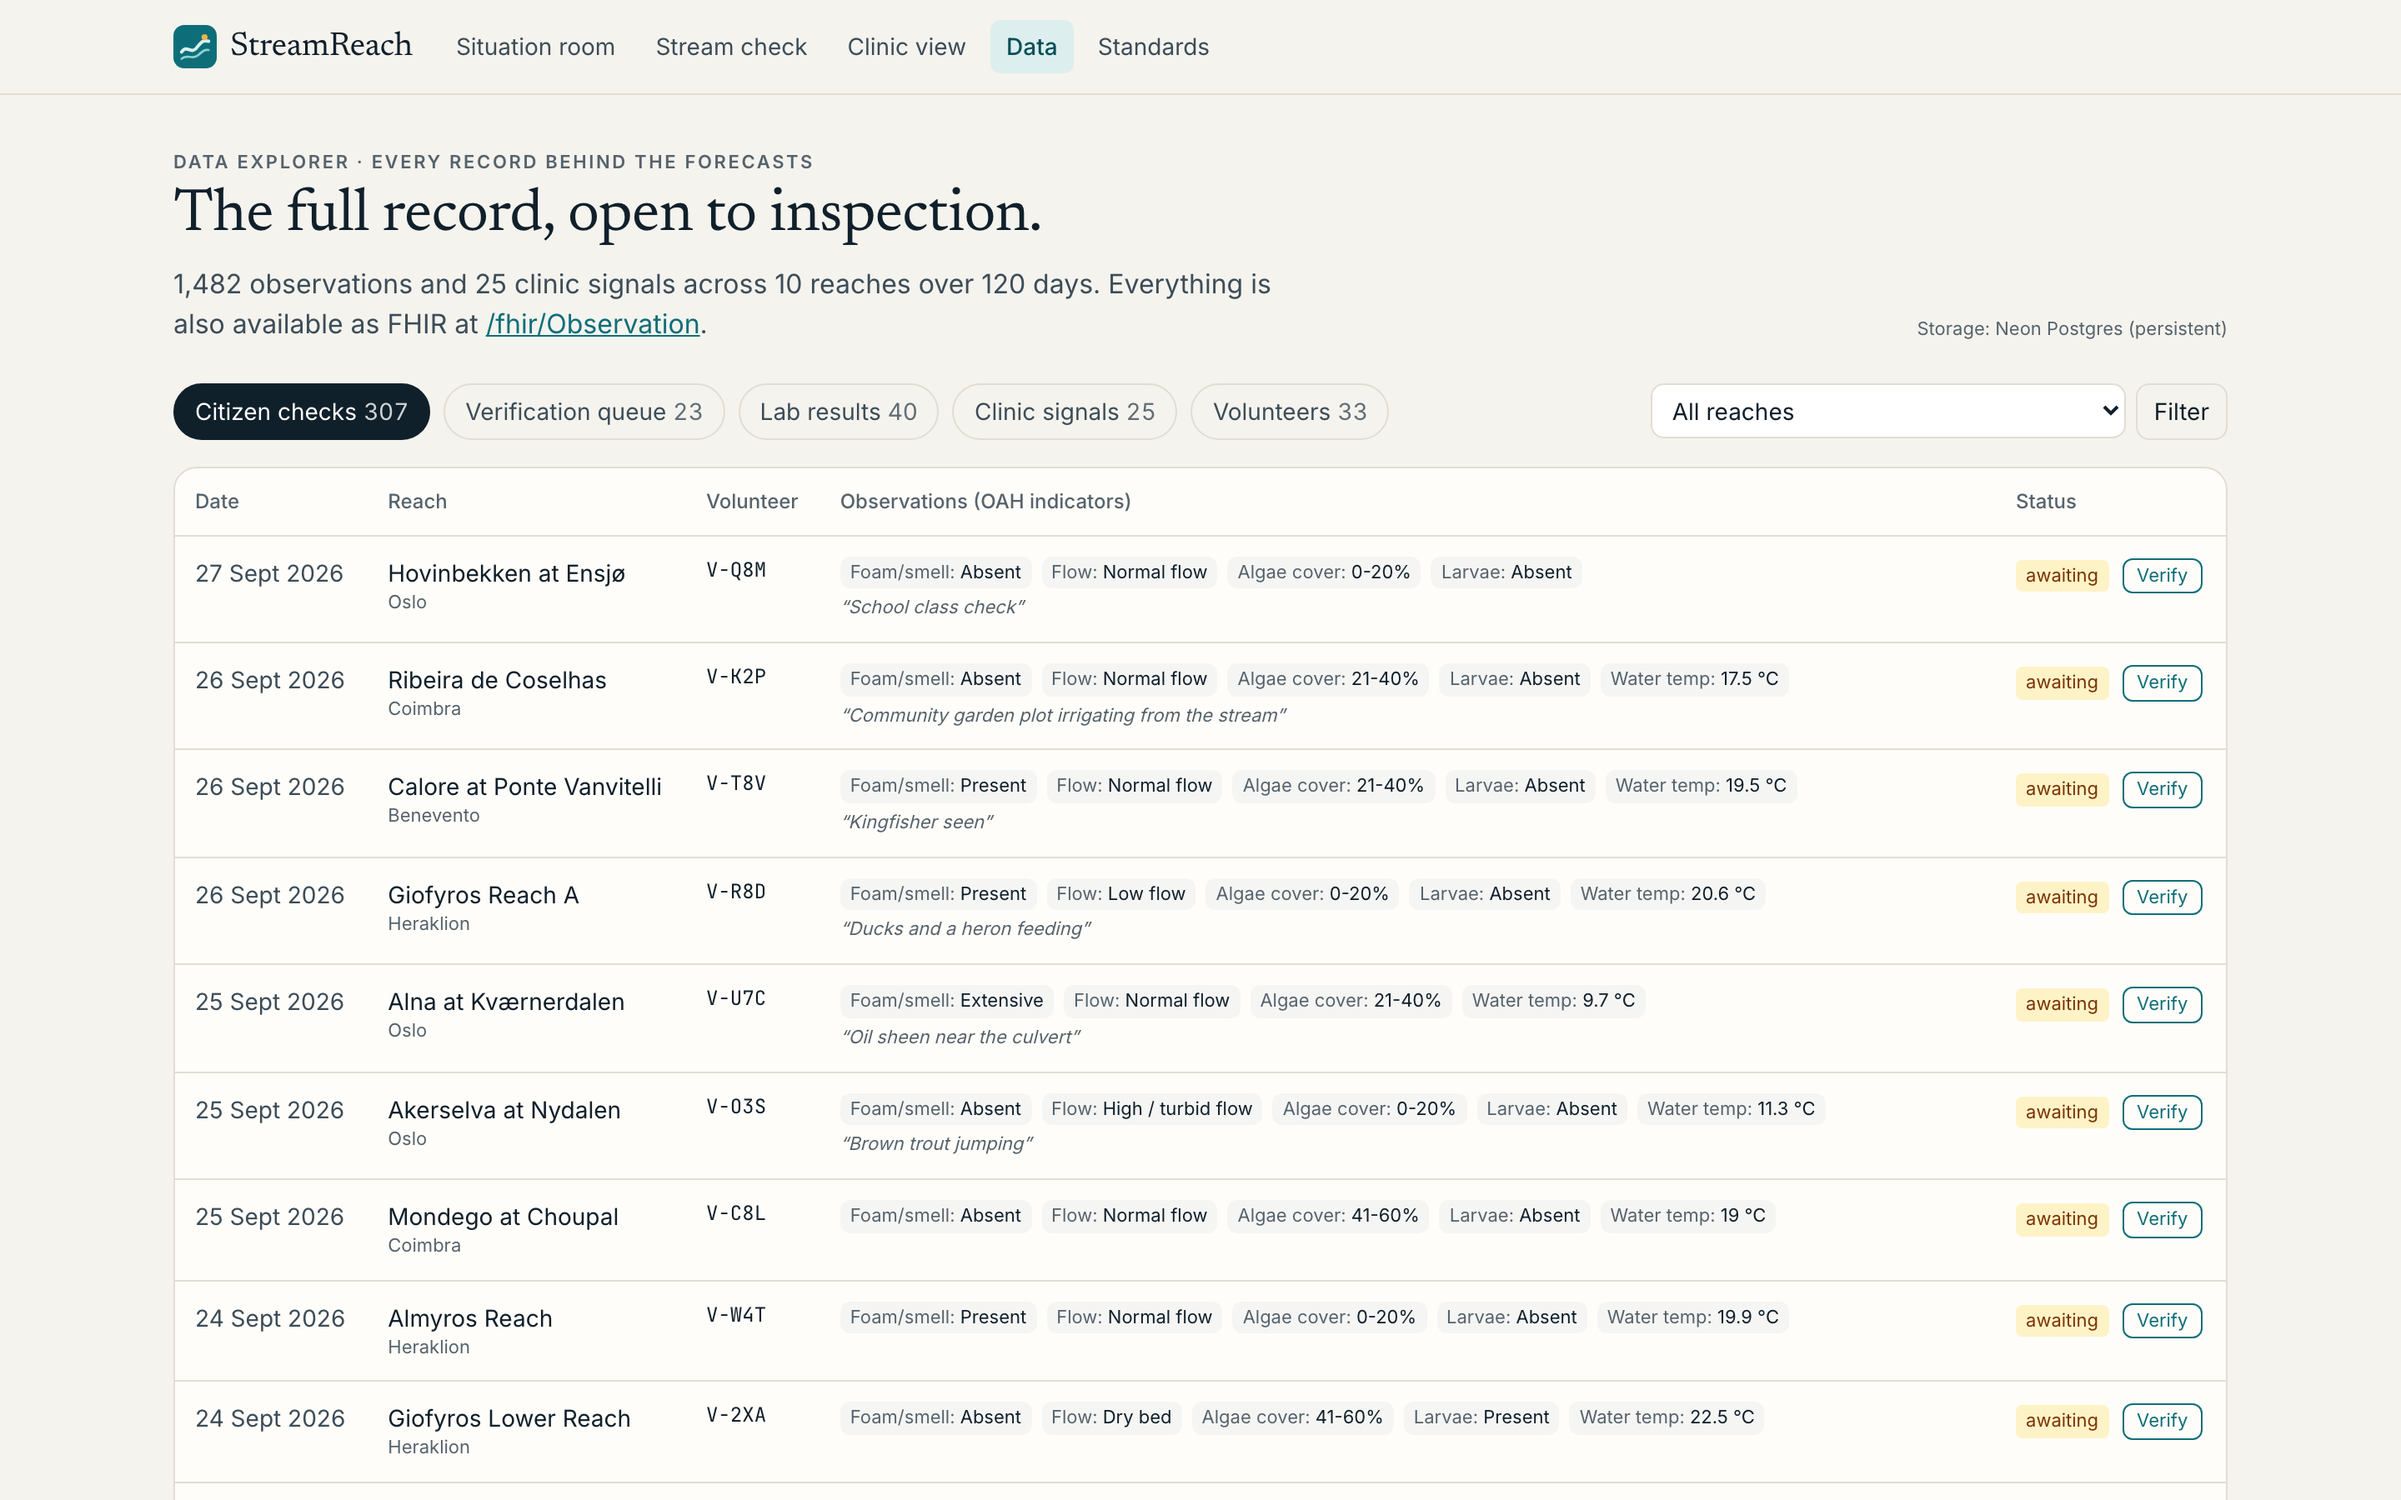
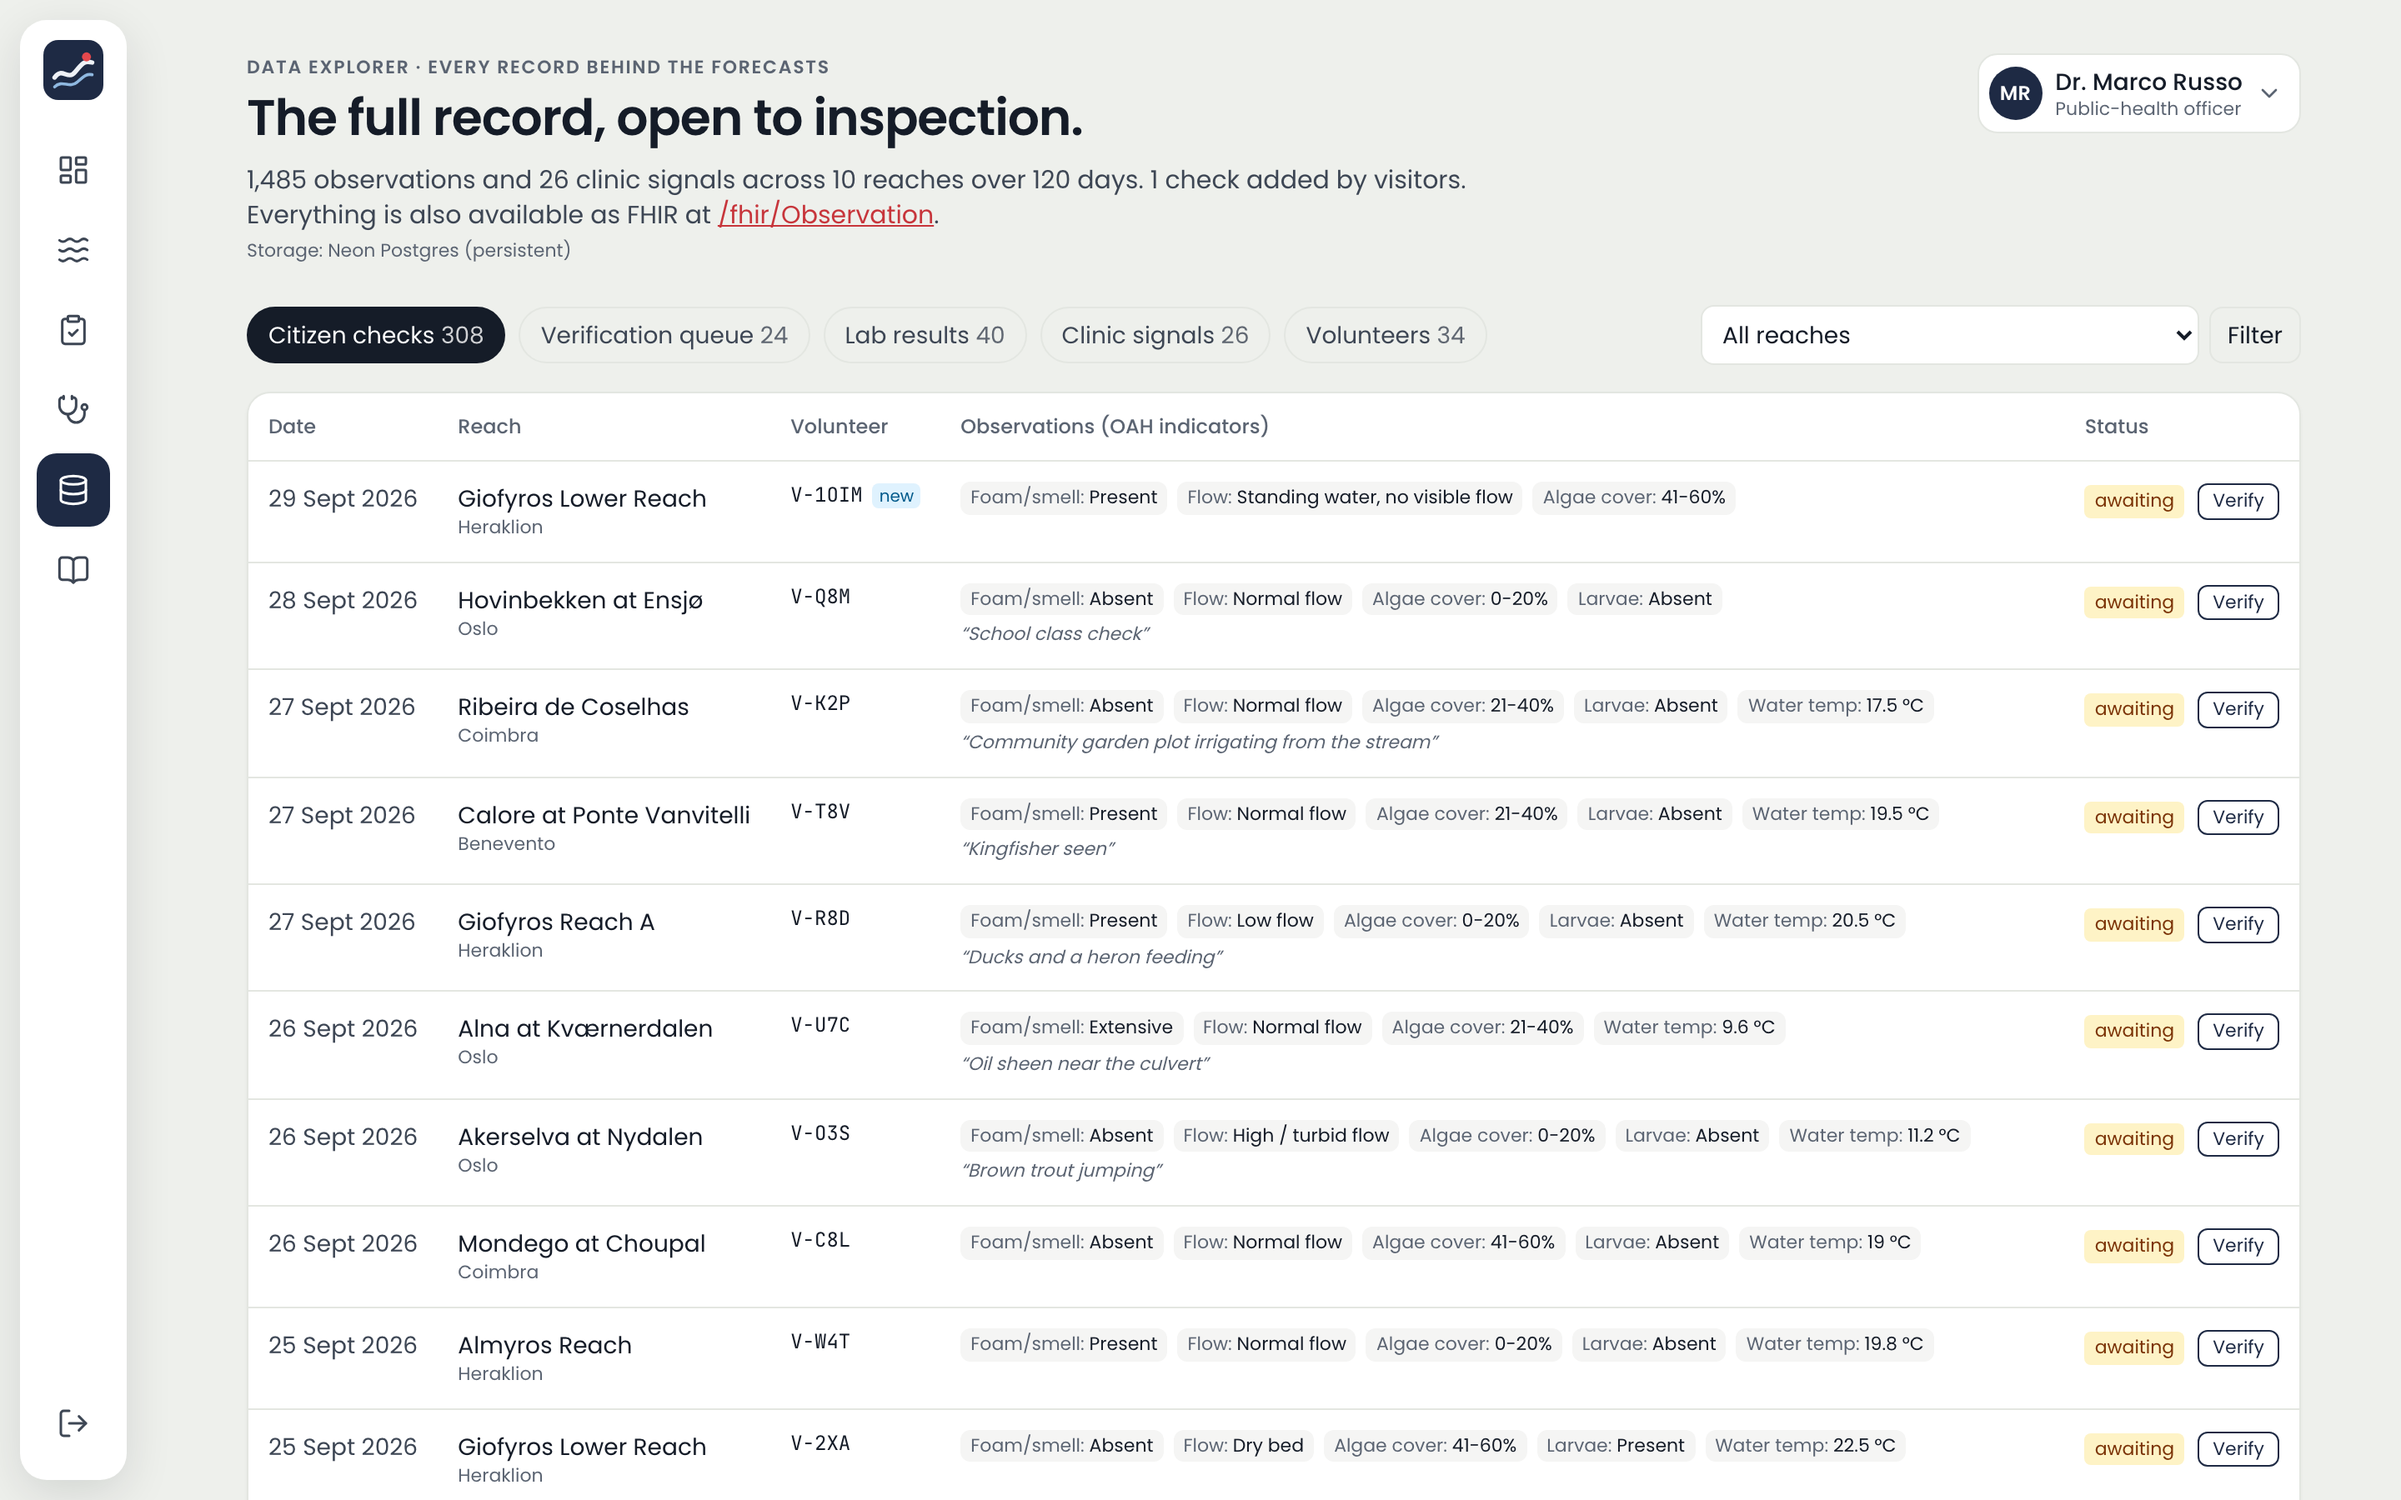
Fresh screenshots from production; README and submission cover auth and the dashboard

diff --git a/README.md b/README.md
@@ -1,6 +1,6 @@
 # StreamReach: from streams to systems
 
-**Live demo:** https://streamreach-health.vercel.app · **CDS Hooks discovery:** https://streamreach-health.vercel.app/cds-services · **FHIR:** https://streamreach-health.vercel.app/fhir/metadata
+**Live demo:** https://streamreach-health.vercel.app (sign in with a one-click demo account) · **CDS Hooks discovery:** https://streamreach-health.vercel.app/cds-services · **FHIR:** https://streamreach-health.vercel.app/fhir/metadata
 
 **One Health early warning for urban streams.** Citizen stream checks and the 7-day weather forecast become explainable
 FHIR risk assessments for waterborne pathogens, toxic algae and mosquito-borne disease. They reach public health teams on
@@ -15,33 +15,37 @@ Standards**, with Track 1 (citizen UX) and Track 4 (plain-language advice) eleme
 
 ## Screenshots
 
-**Situation room:** live forecast, alerts for the next 72 hours, and a what-if planner.
-![Situation room](docs/screenshots/situation-room.png)
+**Monitoring dashboard.** A satellite map with each stream's risk zone, a 14-day risk and rain chart, a day-by-day
+forecast strip, what-if scenarios, live weather and the latest citizen checks.
+![Monitoring dashboard](docs/screenshots/dashboard.png)
 
-**What-if: storm tomorrow (+40 mm).** Overflow warnings light up across cities.
+**Landing page and sign-in.** One-click demo accounts for each role.
+<p>
+  <img src="docs/screenshots/landing.png" alt="Landing page" width="49%">
+  <img src="docs/screenshots/signin.png" alt="Sign-in with demo accounts" width="49%">
+</p>
+
+**What-if: storm tomorrow (+40 mm).** Overflow warnings across cities.
 ![What-if storm scenario](docs/screenshots/what-if-storm.png)
 
-**Stream health record:** a daily risk timeline, with every factor named, sourced and weighted.
+**Stream health record.** A daily risk timeline, with every factor named, sourced and weighted.
 ![Stream record](docs/screenshots/stream-record.png)
 
-**AI duty officer:** the agent gathers evidence with tools, then drafts a plan: a Greek advisory, a GP note, owned
-actions and cited evidence. A named human approves it before it is published.
+**AI duty officer.** The agent gathers evidence with tools, then drafts a plan: a local-language advisory, a GP note, owned
+actions and cited evidence. The signed-in officer approves it before it is published.
 ![AI duty officer drafting a response plan](docs/screenshots/ai-duty-officer.png)
 
-**Clinic view:** a demo EHR receiving a real CDS Hooks card, with a draft order and anonymous feedback.
+**Clinic view.** A demo EHR receiving a real CDS Hooks card, with a draft order and anonymous feedback.
 ![Clinic view with CDS Hooks card](docs/screenshots/clinic-cds-hooks.png)
 
-**Citizen stream check:** five plain-language questions using OneAquaHealth indicators.
+**Citizen stream check.** Five plain-language questions based on OneAquaHealth indicators.
 ![Citizen stream check](docs/screenshots/stream-check.png)
 
-**Data explorer:** the full record, with a coordinator verification queue.
+**Data explorer.** The full record, with a coordinator verification queue.
 ![Data explorer](docs/screenshots/data-explorer.png)
 
-**Standards:** OAH IG profiles, FHIR endpoints and the CDS Hooks discovery document.
-![Standards](docs/screenshots/standards.png)
-
 <p>
-  <img src="docs/screenshots/mobile-home.png" alt="Situation room on a phone" width="260">
+  <img src="docs/screenshots/mobile-home.png" alt="Dashboard on a phone" width="260">
   &nbsp;
   <img src="docs/screenshots/mobile-check.png" alt="Stream check on a phone" width="260">
 </p>
@@ -101,13 +105,14 @@ that overflowed last night.
 npm install
 npm run dev        # http://localhost:3000
 npm test           # 13 unit tests: risk engine, FHIR facade, CDS Hooks (+1 live agent test when ANTHROPIC_API_KEY is set)
-npm run e2e        # 62 Playwright end-to-end + axe accessibility tests (local build, in-memory store, mock agent)
+npm run e2e        # 83 Playwright end-to-end + axe accessibility tests (local build, in-memory store, mock agent)
 npm run e2e:prod   # the same suite against the live deployment; rows it creates are removed afterwards
 ```
 
 The E2E suite covers:
+- landing, sign-up, sign-in, sign-out, demo access, protected routes and role restrictions;
 - every page and all 10 stream records, with no console errors;
-- the situation-room map, alerts and what-if planner;
+- the monitoring dashboard: map markers, search, stream detail, day strip, selectors, CSV export and what-if scenarios;
 - the full citizen check → stream record → coordinator verification → FHIR tag flow;
 - the clinic view: cards, draft order, anonymous share landing in the data explorer, dismiss with reason, and a failing
   CDS service;
@@ -132,12 +137,26 @@ climatology offline.
 
 | Page | What to look at |
 |---|---|
-| `/` | Situation room: map, 72 h alerts, what-if planner (try "Storm tomorrow · 40 mm") |
-| `/sites/giofyros-1` | Stream health record: daily risk timeline, *why this score*, AI duty officer (*Draft response plan*), citizen and lab record, FHIR JSON |
-| `/check` | Citizen stream check: shows the FHIR bundle, then the before/after risk |
-| `/clinic` | Demo EHR calling the real CDS Hooks service: accept or dismiss suggestions and watch the feedback land |
-| `/data` | Data explorer: every citizen check, lab result, clinic signal and volunteer, plus a coordinator verification queue |
-| `/standards` | Resource map, endpoints, discovery document |
+| `/` | Landing page |
+| `/signin` | Sign in, or one click into a demo account: **public-health officer**, **citizen volunteer** or **clinician** |
+| `/app` | Monitoring dashboard: satellite map, stream list and detail, day strip, risk/rain chart, what-if scenarios, live weather |
+| `/app/streams/giofyros-1` | Stream health record: daily risk timeline, *why this score*, AI duty officer (*Draft response plan*), citizen and lab record, FHIR JSON |
+| `/app/check` | Citizen stream check: shows the FHIR bundle, then the before/after risk |
+| `/app/clinic` | Demo EHR calling the real CDS Hooks service: accept or dismiss suggestions and watch the feedback land |
+| `/app/data` | Data explorer: every citizen check, lab result, clinic signal and volunteer, plus a coordinator verification queue |
+| `/standards` | Resource map, endpoints, discovery document (public) |
+
+### Accounts and roles
+
+- **Sign-in:** email and password. Passwords are hashed with scrypt. Sessions are stored in the database, and the browser
+  holds only an opaque token in an httpOnly cookie; the server stores just its SHA-256 hash.
+- **Self-service sign-up** is for citizen volunteers and clinicians. Public-health officer accounts are provisioned by the
+  city; the demo officer account shows that role.
+- **Enforced on the server:**
+  - reading FHIR and CDS Hooks is open, for interoperability;
+  - writing FHIR requires a signed-in user, and each observation is stamped with that user's pseudonymous volunteer code;
+  - only officers can verify checks, run the AI agent, or approve and discard plans. The approver recorded is the
+    signed-in officer.
 
 ## Interfaces
 
@@ -145,9 +164,11 @@ climatology offline.
 `location`, `subject`, `code`), `Group`, `Communication` (approved advisories, search by `about`), `Provenance`,
 `CodeSystem`. `POST /fhir` accepts a transaction Bundle of OAH indicator Observations.
 
-**Agent API**:
+**Auth API**: `POST /api/auth/signup`, `/api/auth/signin`, `/api/auth/signout`, `/api/auth/demo` and `GET /api/auth/me`.
+
+**Agent API** (officers only):
 - `POST /api/agent/plan` `{ siteId, fresh? }` streams the agent's steps as server-sent events.
-- `POST /api/agent/plans/{id}` `{ decision: "approve" | "discard", officer }` records the human decision.
+- `POST /api/agent/plans/{id}` `{ decision: "approve" | "discard" }` records the signed-in officer's decision.
 
 **CDS Hooks 2.0**: `GET /cds-services`, `POST /cds-services/streamreach-stream-exposure`,
 `POST /cds-services/streamreach-stream-exposure/feedback`. CORS is enabled. Once deployed, you can register the discovery URL in
@@ -185,7 +206,7 @@ Location.type, SNOMED "Living place" for cohort characteristics). The other two 
                               └─submit plan (strict schema)──▶ draft ──human approves──▶ FHIR Communication + Provenance
 ```
 
-Next.js 16 (App Router, route handlers), TypeScript, Tailwind v4, Leaflet/OpenStreetMap, Vitest. The risk model is
+Next.js 16 (App Router, route handlers, proxy), TypeScript, Tailwind v4, Poppins, Leaflet with Esri World Imagery and OpenStreetMap, Neon Postgres, Vitest and Playwright. The risk model is
 documented in [`docs/MODEL.md`](docs/MODEL.md).
 
 ## Honest limitations

diff --git a/docs/SUBMISSION.md b/docs/SUBMISSION.md
@@ -27,10 +27,13 @@ mission is to connect ecosystem health and human health. We wanted to connect th
 already use.
 
 ## What it does
+0. **Landing page, sign-in and roles.** Anyone can explore through one-click demo accounts: a public-health officer, a
+   citizen volunteer or a clinician. Real accounts use hashed passwords and database sessions. Each role only gets what
+   it needs: citizens report, officers verify and approve AI drafts, clinicians see the EHR integration.
 1. **Stream check.** Residents answer five picture-based questions (the OneAquaHealth app's indicators). Each check is
    stored as OAH-profiled FHIR Observations and immediately updates the neighbourhood's warnings. The volunteer sees
    what their check changed.
-2. **Situation room.** A map, 72-hour alerts, and a daily risk timeline for each reach. Every score has a "why this
+2. **Monitoring dashboard.** A satellite map with each stream's risk zone, a day-by-day forecast strip, a risk and rain chart, live weather and the latest checks. Each reach also has a daily risk timeline. Every score has a "why this
    score" breakdown: storm overflow likely, sewage signs reported, warm water, larvae spotted, and so on. Each factor
    is tagged with its source (forecast, citizen, lab, site, clinic).
 3. **Stream to clinic.** A CDS Hooks `patient-view` service. When a GP opens a chart, StreamReach:
@@ -73,7 +76,7 @@ already use.
   steps stream to the browser as server-sent events. Drafts and decisions are stored in Postgres. Usage guards: a
   per-visitor cooldown, a daily cap and one-hour draft reuse. A deterministic mock mode lets the E2E suite test the
   whole flow without model calls.
-- **Tests:** 13 Vitest unit tests, a live agent test, and 62 Playwright end-to-end tests with an axe WCAG 2 AA scan. The E2E suite
+- **Tests:** 13 Vitest unit tests, a live agent test, and 83 Playwright end-to-end tests with an axe WCAG 2 AA scan. The E2E suite
   passes against the live deployment.
 
 ## Challenges
